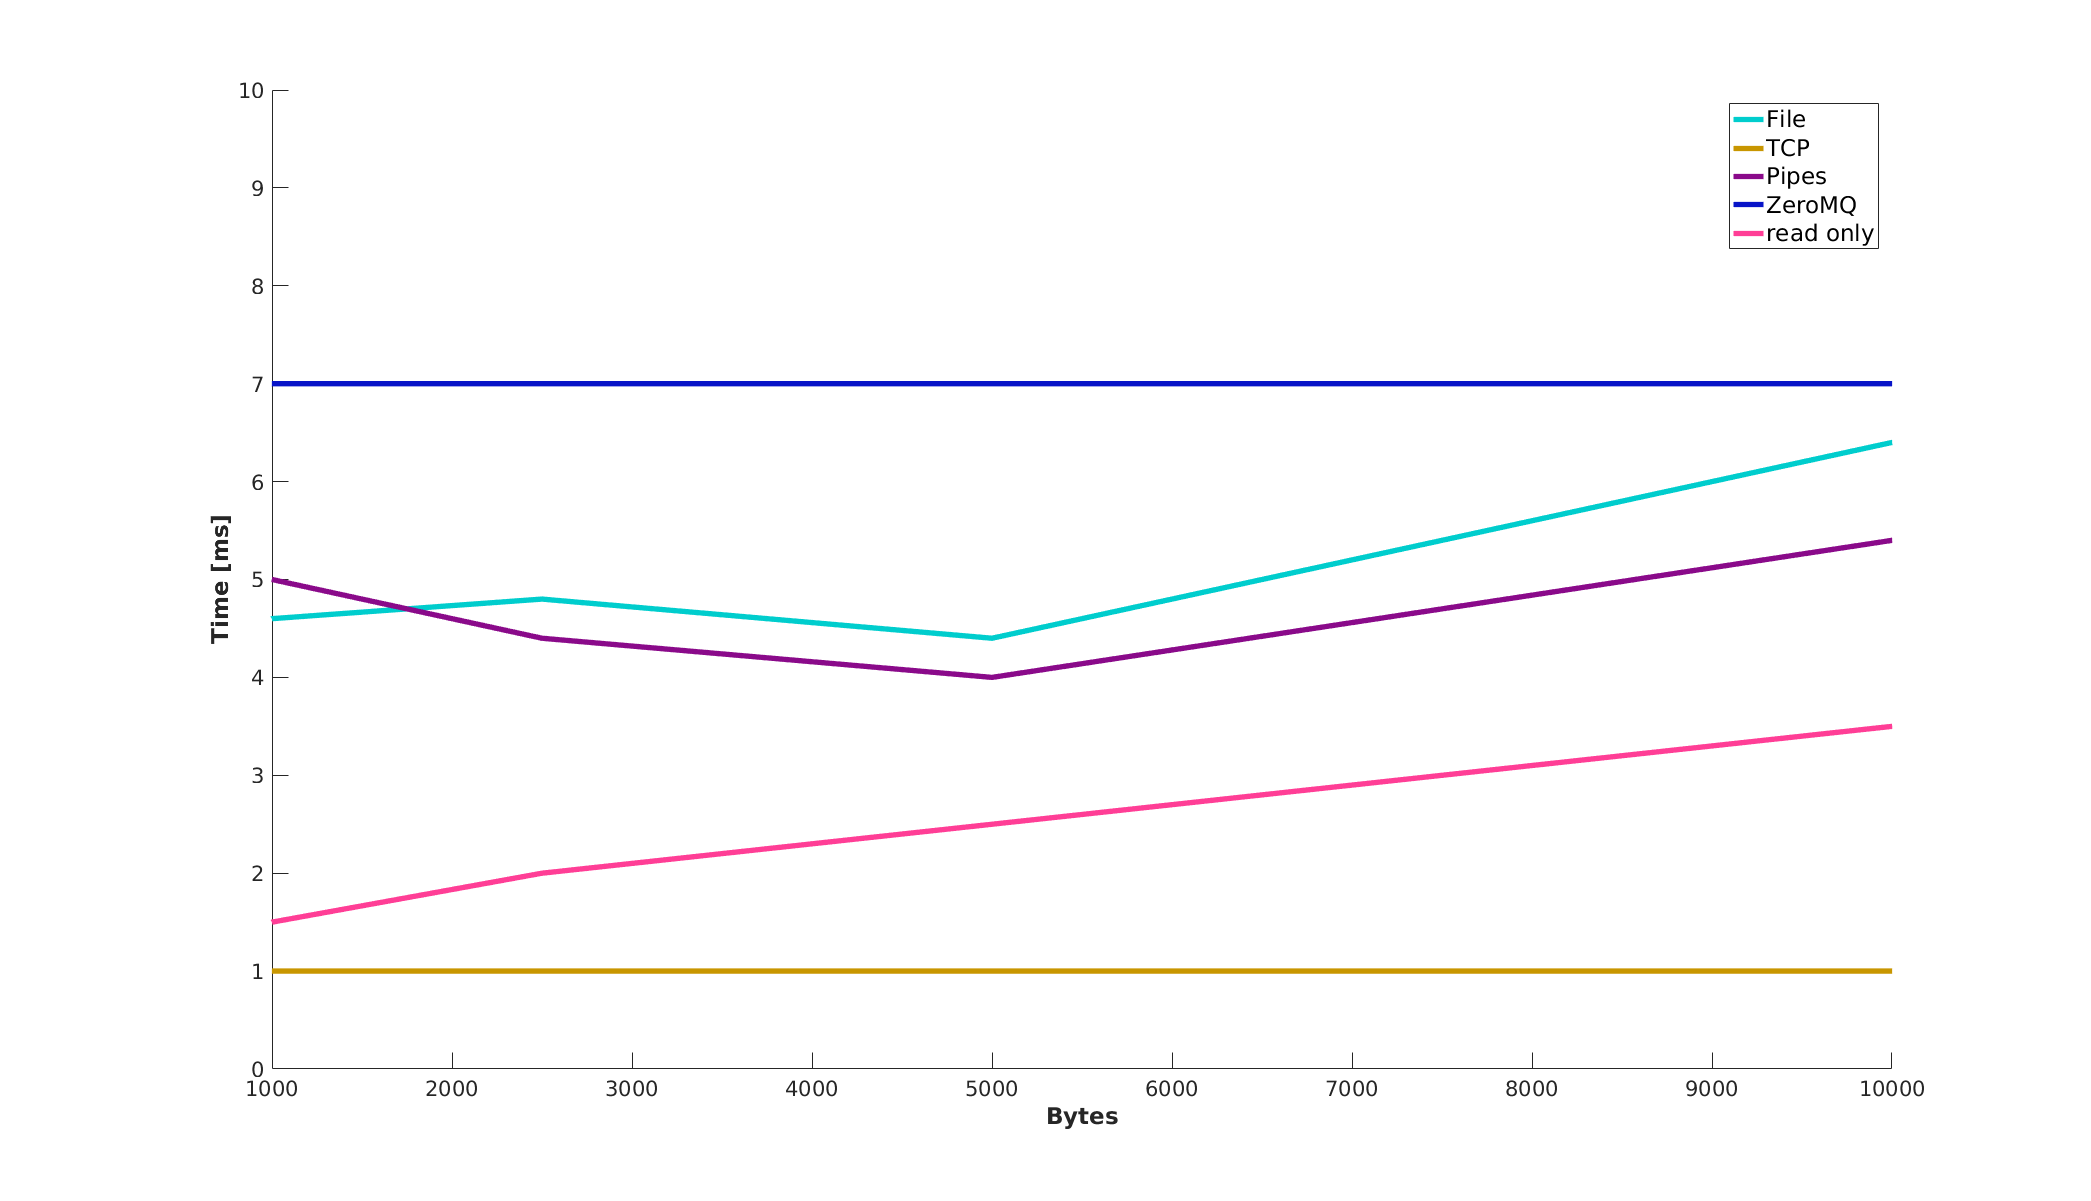
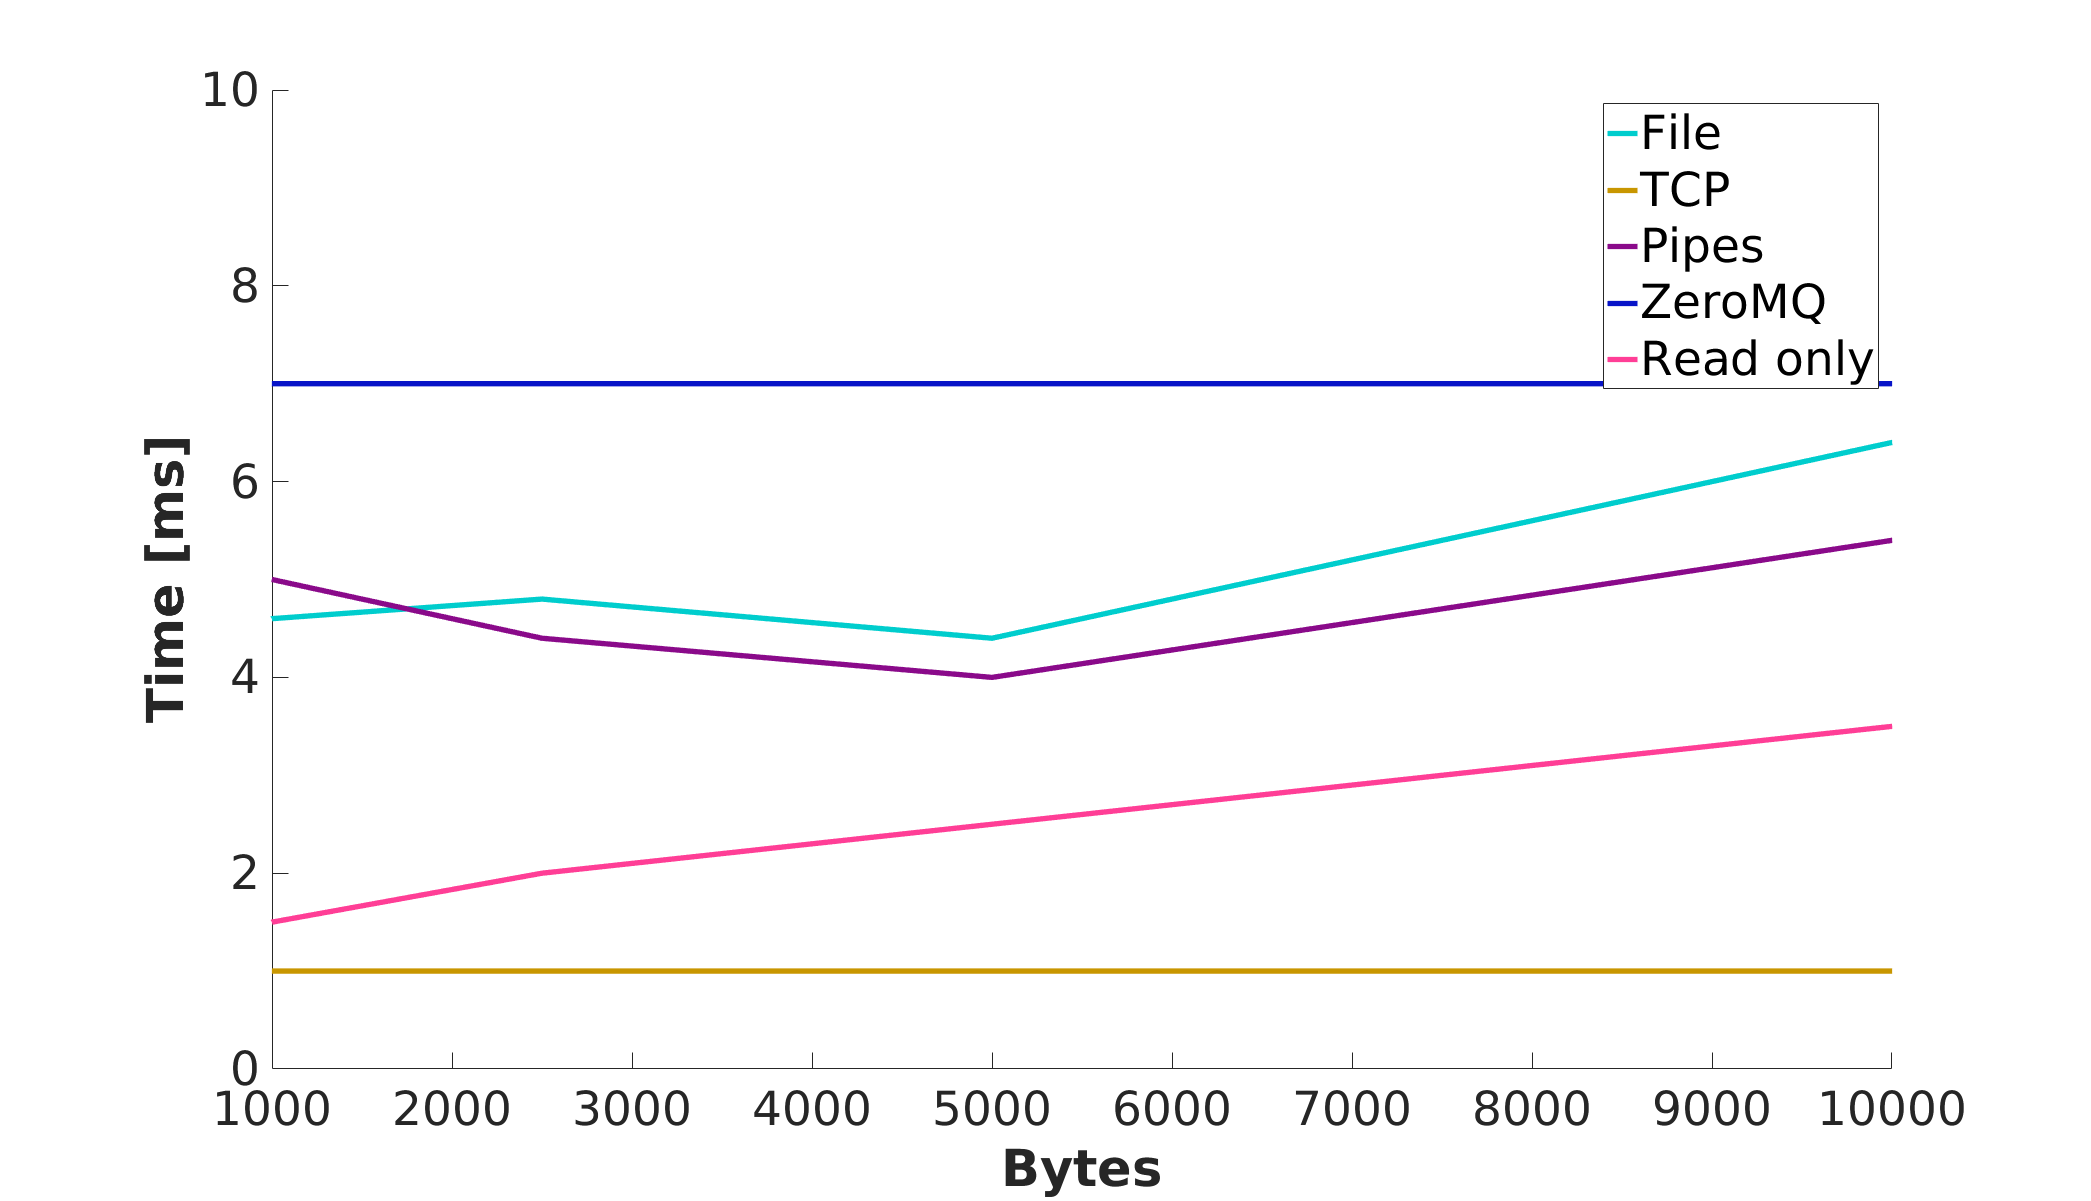
New plots of I/O performance. Larger fonts on everything.

diff --git a/presentation/main.tex b/presentation/main.tex
@@ -3,7 +3,8 @@
 \usepackage{subfigure}
 \usetheme[background=light]{metropolis}
 
-\title{A Presentation of our Work}
+\title{Examining different I/O methods in globl/solve to enhance performance
+and improving slew rate models for IVS antennas}
 \date{2016-08-18}
 \author{The Swedish Interns}
 \institute{Created for NVI Inc. at the Goddard Space Flight Centre}
